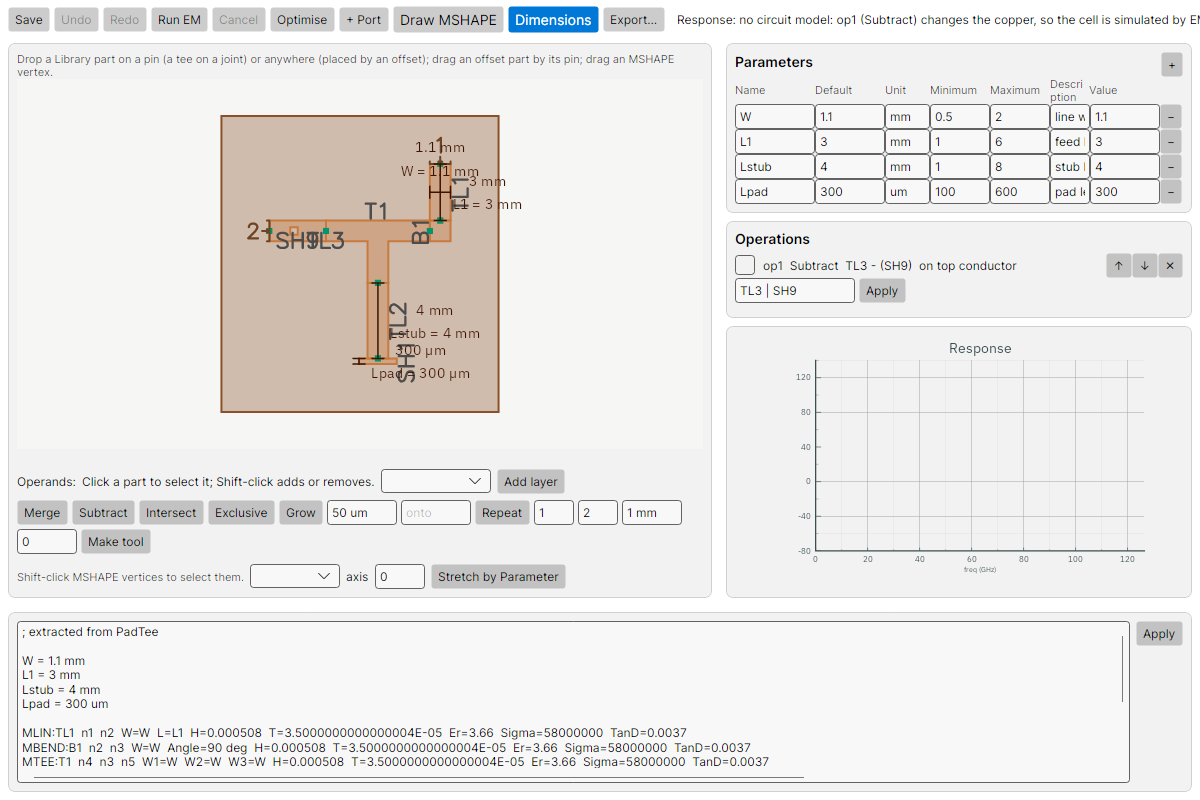
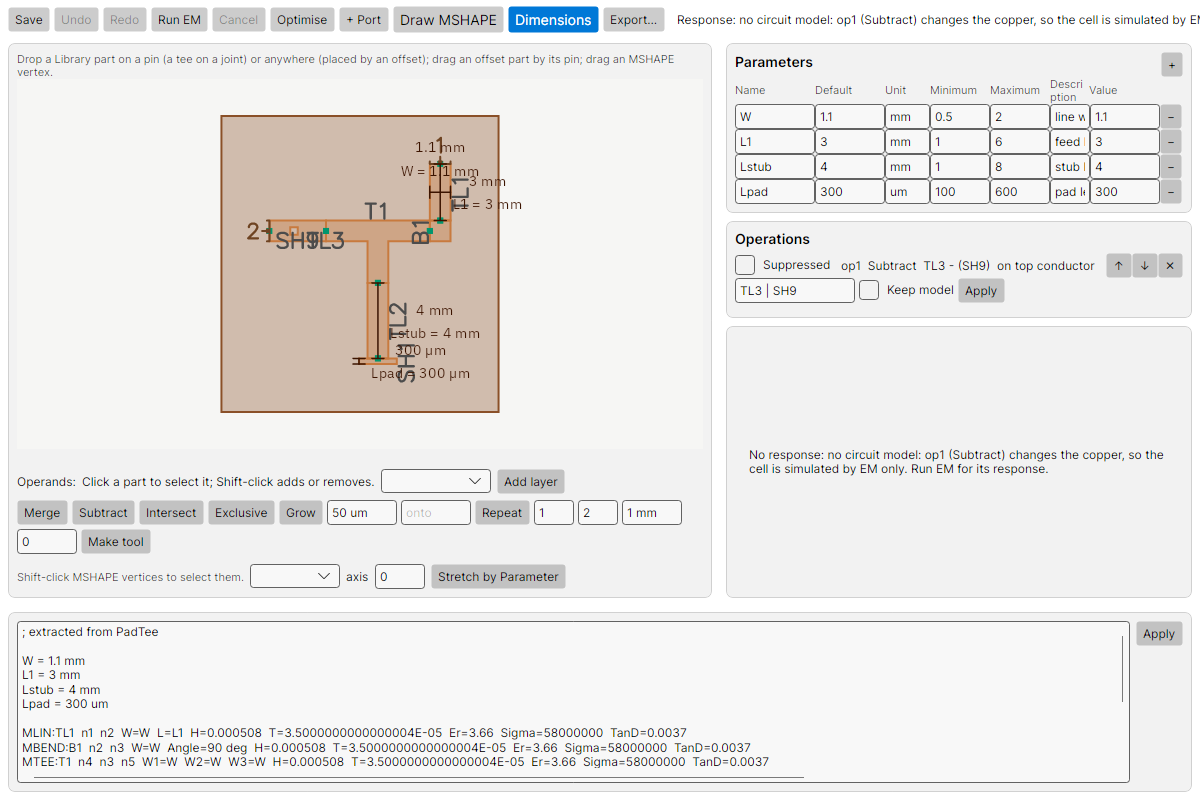
PCD-14: an empty response pane says why (no circuit model, or not run yet) in place of blank axes; the history row's Suppressed box spaced from its step; operations screenshot retaken; design note status PCD-0 to PCD-14

diff --git a/src/Ui/PCellDesigner/PCellDesignerViewModel.cs b/src/Ui/PCellDesigner/PCellDesignerViewModel.cs
@@ -180,6 +180,10 @@ public sealed partial class PCellDesignerViewModel : ObservableObject
     /// <summary>The last Run EM result at the current values (R-pcd6-6), overlaid on <see cref="Response"/>.</summary>
     [ObservableProperty] private SNP? _em;
 
+    /// <summary>Why the plot is empty, shown in its place; null while it has a trace.</summary>
+    [ObservableProperty] private string? _responseNote;
+    private string? _responseWhy;
+
     [ObservableProperty] private bool _busy;
 
     /// <summary>True when the schematic or the table changed since the last Save.</summary>
@@ -334,6 +338,7 @@ public sealed partial class PCellDesignerViewModel : ObservableObject
         Dimensions = DimensionsNow();
         Response = response.S;
         Em = null;   // the EM result was for the values before this change
+        _responseWhy = response.Refusal;
         if (response.Refusal is { } why) Status = "Response: " + why;
         RebuildOperations();
         // A filter cell's metrics, read off the response just computed (PCellFilter.CircuitMetrics's own two steps, so
@@ -461,6 +466,7 @@ public sealed partial class PCellDesignerViewModel : ObservableObject
         Plot.CustomTitleOn = true;
         Plot.CustomTitle = "Response";
         if (Plot.Traces.Count > 0) Plot.Autoscale(force: true);
+        ResponseNote = Plot.Traces.Count > 0 ? null : "No response: " + (_responseWhy ?? "not run yet.");
         _container.OnPlotChanged(this, EventArgs.Empty);
         OnPropertyChanged(nameof(Plot));
         _container.RequestPlotRedraw();

diff --git a/docs/design/pcell-designer.md b/docs/design/pcell-designer.md
@@ -1,6 +1,6 @@
 # circuitRF — PCell Designer: a schematic of primitives as a parameterised cell
 
-**Status:** built (series PCD-0 to PCD-8) · **Date:** 2026-11-27
+**Status:** built (series PCD-0 to PCD-14) · **Date:** 2026-11-28
 
 The schematic-driven layout series (SDL) made a schematic of primitives draw a joined layout and be solved and
 optimised by EM. The PCell Designer makes such a schematic a **designed cell**: a PCell whose layout is the planner's
